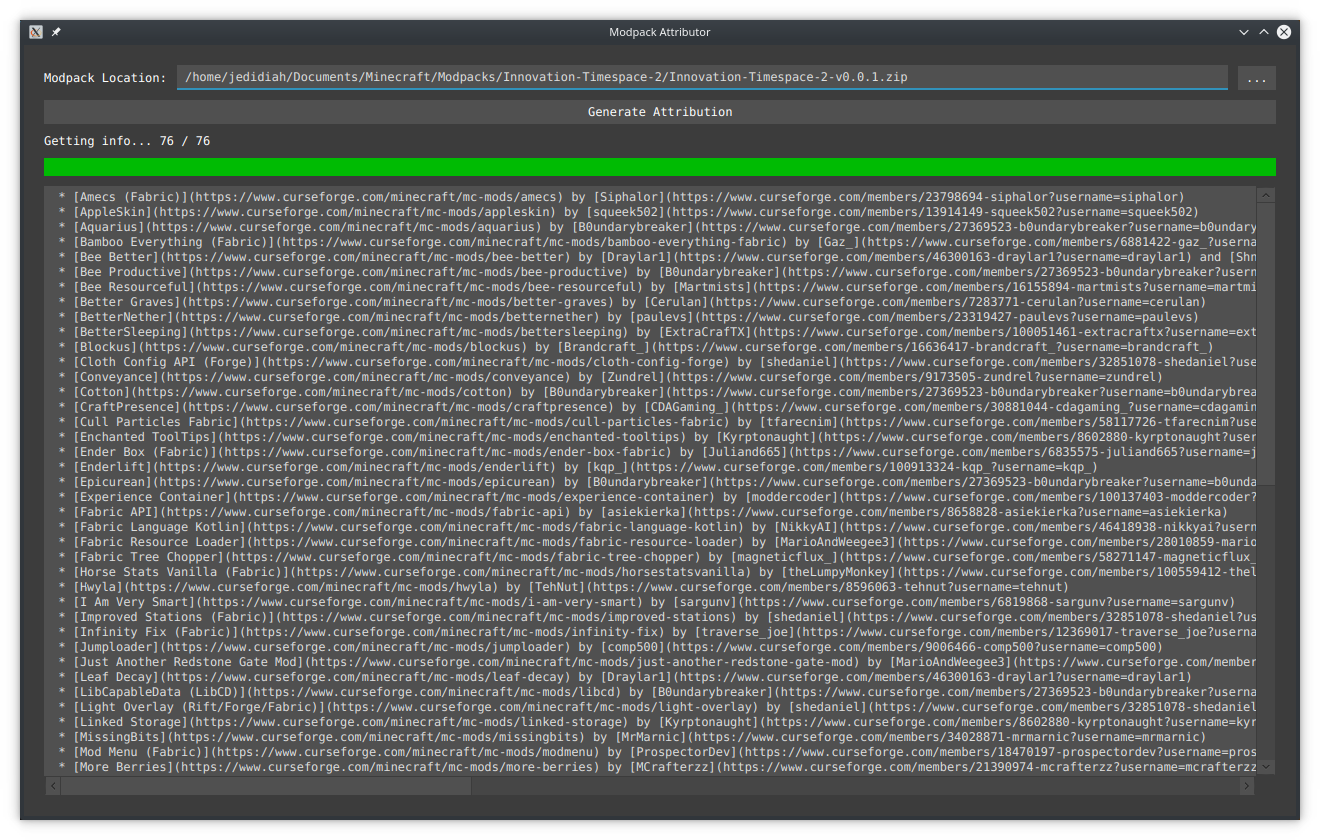
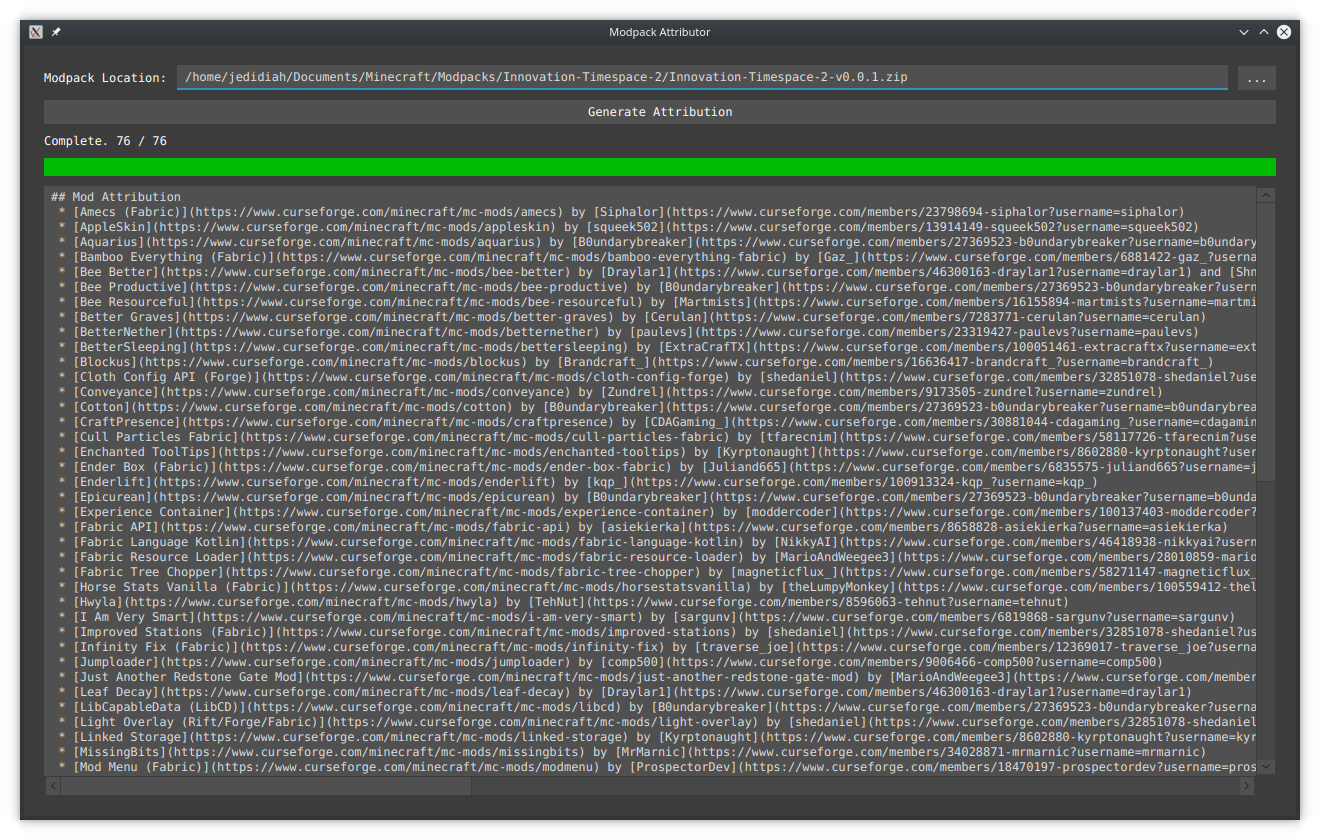
Improve status and generated text

Changed region(s): [[0.0311, 0.2167, 0.9629, 0.9286], [0.0311, 0.1548, 0.1553, 0.1857]]

diff --git a/src/main/kotlin/com/kneelawk/modpackattributor/ModpackAttributorController.kt b/src/main/kotlin/com/kneelawk/modpackattributor/ModpackAttributorController.kt
@@ -76,21 +76,25 @@ class ModpackAttributorController : Controller() {
         updateMessage("Getting info... 0 / $fileCount")
 
         val addons = arrayListOf<AddonData>()
+        var loadedAddons = 0L
 
-        manifest.files.forEachIndexed { index, fileJson ->
+        manifest.files.forEach { fileJson ->
             val addon = addonUtils.getAddonInfo(fileJson.projectID)
             if (addon != null) {
                 addons += addon
+                loadedAddons++
             } else {
                 println("Unable to retrieve addon information for projectId: ${fileJson.projectID}")
             }
-            updateProgress(index.toLong() + 1, fileCount)
-            updateMessage("Getting info... ${index + 1} / $fileCount")
+            updateProgress(loadedAddons, fileCount)
+            updateMessage("Getting info... $loadedAddons / $fileCount")
         }
+
+        updateMessage("Complete. $loadedAddons / $fileCount")
 
         addons.sortBy { it.name }
 
-        val accumulatedMessage = addons.joinToString("") { getAttributionMarkdown(it) }
+        val accumulatedMessage = "## Mod Attribution\n" + addons.joinToString("") { getAttributionMarkdown(it) }
 
         runLater {
             attributionText.value = accumulatedMessage
